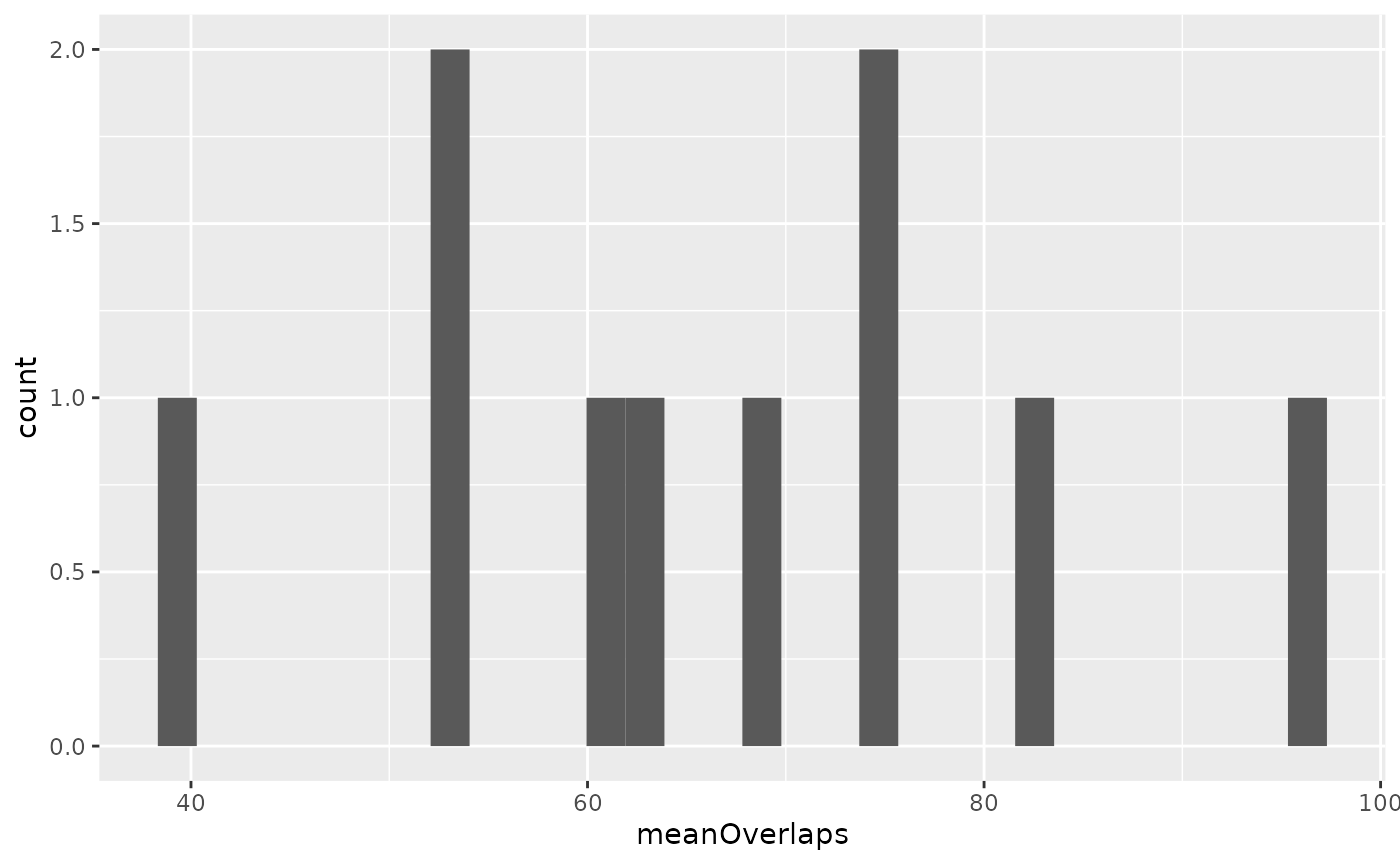
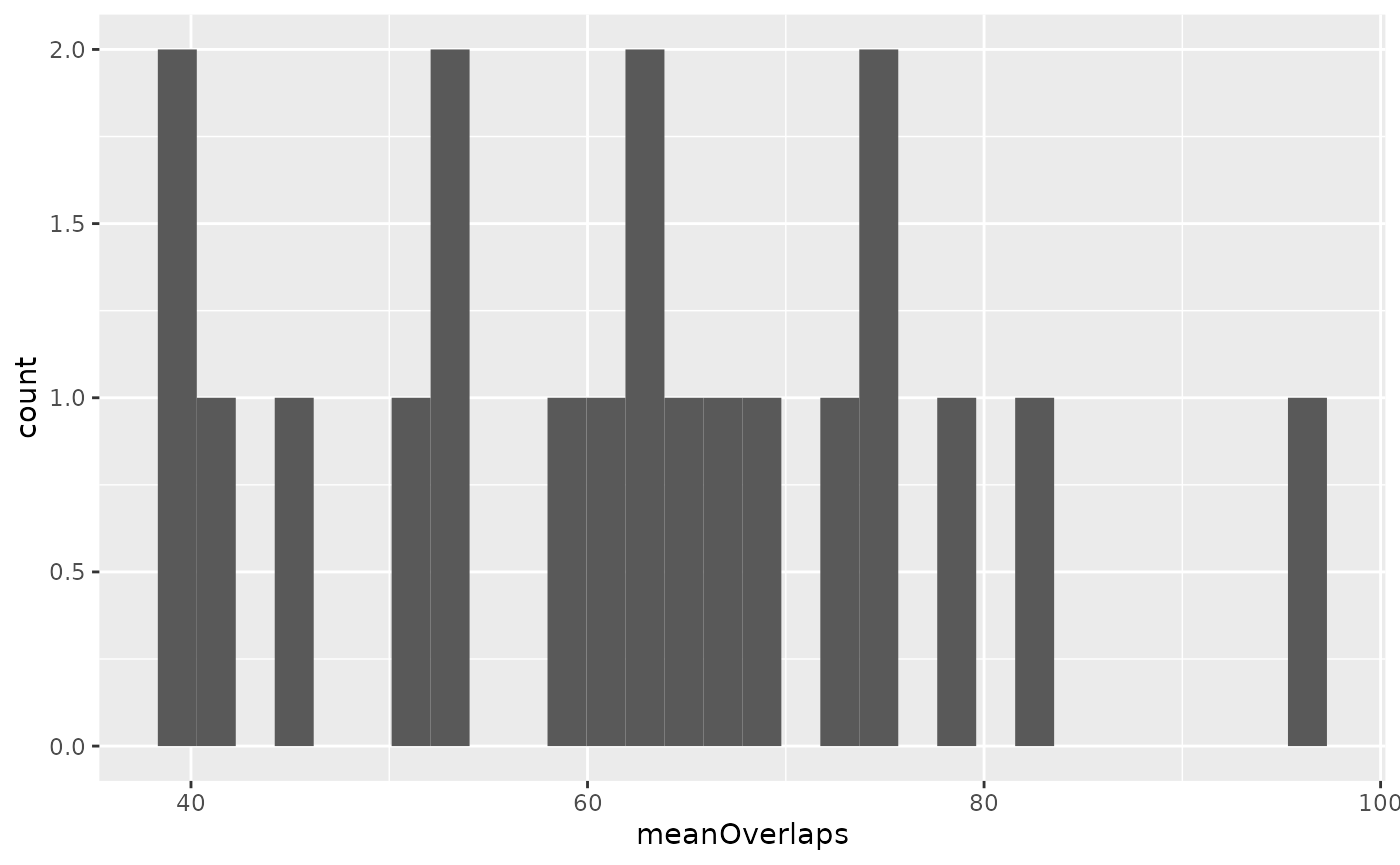
Deploying to gh-pages from @ EricSDavis/Bioc2022nullranges@822653a006d3b0fdc4a99e1853cd58dcc12bce7c 🚀

diff --git a/articles/nullranges.html b/articles/nullranges.html
@@ -563,9 +563,8 @@ than your original features, so <span class="math inline">\(\color{brown}{\text{
 trimming}}\)</span> extra metadata can help make the analysis more
 efficient.</p>
 <div class="sourceCode" id="cb8"><pre class="downlit sourceCode r">
-<code class="sourceCode R"><span><span class="va">dhs</span> <span class="op">&lt;-</span> <span class="fu"><a href="https://rdrr.io/pkg/nullrangesData/man/DHSA549Hg38.html" class="external-link">DHSA549Hg38</a></span><span class="op">(</span><span class="op">)</span></span>
-<span><span class="co">#&gt; see ?nullrangesData and browseVignettes('nullrangesData') for documentation</span></span>
-<span><span class="co">#&gt; loading from cache</span></span>
+<code class="sourceCode R"><span><span class="kw"><a href="https://rdrr.io/r/base/library.html" class="external-link">library</a></span><span class="op">(</span><span class="va">nullrangesData</span><span class="op">)</span></span>
+<span><span class="va">dhs</span> <span class="op">&lt;-</span> <span class="fu"><a href="https://rdrr.io/pkg/nullrangesData/man/DHSA549Hg38.html" class="external-link">DHSA549Hg38</a></span><span class="op">(</span><span class="op">)</span></span>
 <span><span class="va">dhs</span> <span class="op">&lt;-</span> <span class="va">dhs</span> <span class="op"><a href="https://magrittr.tidyverse.org/reference/pipe.html" class="external-link">%&gt;%</a></span> <span class="fu">plyranges</span><span class="fu">::</span><span class="fu"><a href="https://dplyr.tidyverse.org/reference/filter.html" class="external-link">filter</a></span><span class="op">(</span><span class="va">signalValue</span> <span class="op">&gt;</span> <span class="fl">100</span><span class="op">)</span> <span class="op"><a href="https://magrittr.tidyverse.org/reference/pipe.html" class="external-link">%&gt;%</a></span></span>
 <span>  <span class="fu"><a href="https://dplyr.tidyverse.org/reference/mutate.html" class="external-link">mutate</a></span><span class="op">(</span>id <span class="op">=</span> <span class="fu"><a href="https://rdrr.io/r/base/seq.html" class="external-link">seq_along</a></span><span class="op">(</span><span class="va">.</span><span class="op">)</span><span class="op">)</span> <span class="op"><a href="https://magrittr.tidyverse.org/reference/pipe.html" class="external-link">%&gt;%</a></span></span>
 <span>  <span class="fu">plyranges</span><span class="fu">::</span><span class="fu"><a href="https://dplyr.tidyverse.org/reference/select.html" class="external-link">select</a></span><span class="op">(</span><span class="va">id</span><span class="op">)</span></span>
@@ -632,44 +631,44 @@ block bootstrap</a> from the nullranges package.</p>
 <h4 id="subsampling-with-bootranges">Subsampling with bootRanges()<a class="anchor" aria-label="anchor" href="#subsampling-with-bootranges"></a>
 </h4>
 <p>Now we apply a segmented block bootstrap with blocks of size 500kb,
-to the peaks. Here we show generation of 10 iterations of a block
+to the peaks. Here we show generation of 20 iterations of a block
 bootstrap followed by a typical overlap analysis using
 <em>plyranges</em> <span class="citation">(Lee, Cook, and Lawrence
 2019)</span>. (We might normally do 100 iterations or more, depending on
 the granularity of the bootstrap distribution that is needed.)</p>
 <div class="sourceCode" id="cb11"><pre class="downlit sourceCode r">
 <code class="sourceCode R"><span><span class="fu"><a href="https://rdrr.io/r/base/Random.html" class="external-link">set.seed</a></span><span class="op">(</span><span class="fl">5</span><span class="op">)</span> <span class="co"># for reproducibility</span></span>
-<span><span class="va">R</span> <span class="op">&lt;-</span> <span class="fl">10</span></span>
+<span><span class="va">R</span> <span class="op">&lt;-</span> <span class="fl">20</span></span>
 <span><span class="va">blockLength</span> <span class="op">&lt;-</span> <span class="fl">5e5</span></span>
 <span><span class="va">boots</span> <span class="op">&lt;-</span> <span class="fu"><a href="https://nullranges.github.io/nullranges/reference/bootRanges.html" class="external-link">bootRanges</a></span><span class="op">(</span><span class="va">dhs</span>, <span class="va">blockLength</span>, R <span class="op">=</span> <span class="va">R</span>, seg <span class="op">=</span> <span class="va">seg_cbs</span>, exclude<span class="op">=</span><span class="va">exclude</span><span class="op">)</span></span>
 <span><span class="va">boots</span></span>
-<span><span class="co">#&gt; bootRanges object with 62764 ranges and 4 metadata columns:</span></span>
-<span><span class="co">#&gt;           seqnames            ranges strand |        id     block  iter</span></span>
-<span><span class="co">#&gt;              &lt;Rle&gt;         &lt;IRanges&gt;  &lt;Rle&gt; | &lt;integer&gt; &lt;integer&gt; &lt;Rle&gt;</span></span>
-<span><span class="co">#&gt;       [1]     chr1     242791-242940      * |       347         5     1</span></span>
-<span><span class="co">#&gt;       [2]     chr1     256031-256180      * |       348         5     1</span></span>
-<span><span class="co">#&gt;       [3]     chr1     391535-391684      * |      5301         8     1</span></span>
-<span><span class="co">#&gt;       [4]     chr1     421046-421195      * |      5302         8     1</span></span>
-<span><span class="co">#&gt;       [5]     chr1     438186-438335      * |      5303         8     1</span></span>
-<span><span class="co">#&gt;       ...      ...               ...    ... .       ...       ...   ...</span></span>
-<span><span class="co">#&gt;   [62760]     chrY 22010887-22011036      * |      6075     12428    10</span></span>
-<span><span class="co">#&gt;   [62761]     chrY 25408146-25408295      * |      1826     12436    10</span></span>
-<span><span class="co">#&gt;   [62762]     chrY 26573840-26573989      * |       576     12439    10</span></span>
-<span><span class="co">#&gt;   [62763]     chrY 26595240-26595389      * |       577     12439    10</span></span>
-<span><span class="co">#&gt;   [62764]     chrY 28050177-28050326      * |      3027     12443    10</span></span>
-<span><span class="co">#&gt;           blockLength</span></span>
-<span><span class="co">#&gt;                 &lt;Rle&gt;</span></span>
-<span><span class="co">#&gt;       [1]      500000</span></span>
-<span><span class="co">#&gt;       [2]      500000</span></span>
-<span><span class="co">#&gt;       [3]      500000</span></span>
-<span><span class="co">#&gt;       [4]      500000</span></span>
-<span><span class="co">#&gt;       [5]      500000</span></span>
-<span><span class="co">#&gt;       ...         ...</span></span>
-<span><span class="co">#&gt;   [62760]      500000</span></span>
-<span><span class="co">#&gt;   [62761]      500000</span></span>
-<span><span class="co">#&gt;   [62762]      500000</span></span>
-<span><span class="co">#&gt;   [62763]      500000</span></span>
-<span><span class="co">#&gt;   [62764]      500000</span></span>
+<span><span class="co">#&gt; bootRanges object with 124933 ranges and 4 metadata columns:</span></span>
+<span><span class="co">#&gt;            seqnames            ranges strand |        id     block  iter</span></span>
+<span><span class="co">#&gt;               &lt;Rle&gt;         &lt;IRanges&gt;  &lt;Rle&gt; | &lt;integer&gt; &lt;integer&gt; &lt;Rle&gt;</span></span>
+<span><span class="co">#&gt;        [1]     chr1     242791-242940      * |       347         5     1</span></span>
+<span><span class="co">#&gt;        [2]     chr1     256031-256180      * |       348         5     1</span></span>
+<span><span class="co">#&gt;        [3]     chr1     391535-391684      * |      5301         8     1</span></span>
+<span><span class="co">#&gt;        [4]     chr1     421046-421195      * |      5302         8     1</span></span>
+<span><span class="co">#&gt;        [5]     chr1     438186-438335      * |      5303         8     1</span></span>
+<span><span class="co">#&gt;        ...      ...               ...    ... .       ...       ...   ...</span></span>
+<span><span class="co">#&gt;   [124929]     chrY 25284420-25284569      * |      1864     12436    20</span></span>
+<span><span class="co">#&gt;   [124930]     chrY 27272169-27272318      * |      2073     12441    20</span></span>
+<span><span class="co">#&gt;   [124931]     chrY 27508455-27508604      * |       921     12442    20</span></span>
+<span><span class="co">#&gt;   [124932]     chrY 27679815-27679964      * |       922     12442    20</span></span>
+<span><span class="co">#&gt;   [124933]     chrY 27839434-27839583      * |       923     12442    20</span></span>
+<span><span class="co">#&gt;            blockLength</span></span>
+<span><span class="co">#&gt;                  &lt;Rle&gt;</span></span>
+<span><span class="co">#&gt;        [1]      500000</span></span>
+<span><span class="co">#&gt;        [2]      500000</span></span>
+<span><span class="co">#&gt;        [3]      500000</span></span>
+<span><span class="co">#&gt;        [4]      500000</span></span>
+<span><span class="co">#&gt;        [5]      500000</span></span>
+<span><span class="co">#&gt;        ...         ...</span></span>
+<span><span class="co">#&gt;   [124929]      500000</span></span>
+<span><span class="co">#&gt;   [124930]      500000</span></span>
+<span><span class="co">#&gt;   [124931]      500000</span></span>
+<span><span class="co">#&gt;   [124932]      500000</span></span>
+<span><span class="co">#&gt;   [124933]      500000</span></span>
 <span><span class="co">#&gt;   -------</span></span>
 <span><span class="co">#&gt;   seqinfo: 24 sequences from hg38 genome</span></span></code></pre></div>
 <p>What is returned here? The <code>bootRanges</code> function returns a
@@ -736,12 +735,12 @@ the original feature set y.</p>
 <h3 id="derive-interested-statistics">Derive interested statistics<a class="anchor" aria-label="anchor" href="#derive-interested-statistics"></a>
 </h3>
 <p>Suppose we have a set of features <code>x</code> and we are
-interested in</p>
-<p>evaluating the enrichment of this set with the DHS. We can calculate
-for example the sum observed number of overlaps for features in
-<code>x</code> with DHS in whole genome (or something more complicated,
-e.g. the maximum log fold change or signal value for DHS peaks within a
-<code>maxgap</code> window of <code>x</code>).</p>
+interested in evaluating the <span class="math inline">\(\color{brown}{\text{enrichment of this set with
+the DHS}}\)</span>. We can calculate for example the sum observed number
+of overlaps for features in <code>x</code> with DHS in whole genome (or
+something more complicated, e.g. the maximum log fold change or signal
+value for DHS peaks within a <code>maxgap</code> window of
+<code>x</code>).</p>
 <div class="sourceCode" id="cb14"><pre class="downlit sourceCode r">
 <code class="sourceCode R"><span><span class="va">x</span> <span class="op">&lt;-</span> <span class="fu"><a href="https://rdrr.io/pkg/GenomicRanges/man/GRanges-class.html" class="external-link">GRanges</a></span><span class="op">(</span><span class="st">"chr2"</span>, <span class="fu"><a href="https://rdrr.io/pkg/IRanges/man/IRanges-constructor.html" class="external-link">IRanges</a></span><span class="op">(</span><span class="fl">1</span> <span class="op">+</span> <span class="fl">50</span><span class="op">:</span><span class="fl">99</span> <span class="op">*</span> <span class="fl">1e6</span>, width<span class="op">=</span><span class="fl">1e6</span><span class="op">)</span>, x_id<span class="op">=</span><span class="fl">1</span><span class="op">:</span><span class="fl">50</span><span class="op">)</span></span>
 <span><span class="va">x</span> <span class="op">&lt;-</span> <span class="va">x</span> <span class="op"><a href="https://magrittr.tidyverse.org/reference/pipe.html" class="external-link">%&gt;%</a></span> <span class="fu"><a href="https://dplyr.tidyverse.org/reference/mutate.html" class="external-link">mutate</a></span><span class="op">(</span>n_overlaps <span class="op">=</span> <span class="fu"><a href="https://rdrr.io/pkg/plyranges/man/ranges-count-overlaps.html" class="external-link">count_overlaps</a></span><span class="op">(</span><span class="va">.</span>, <span class="va">dhs</span><span class="op">)</span><span class="op">)</span></span>
